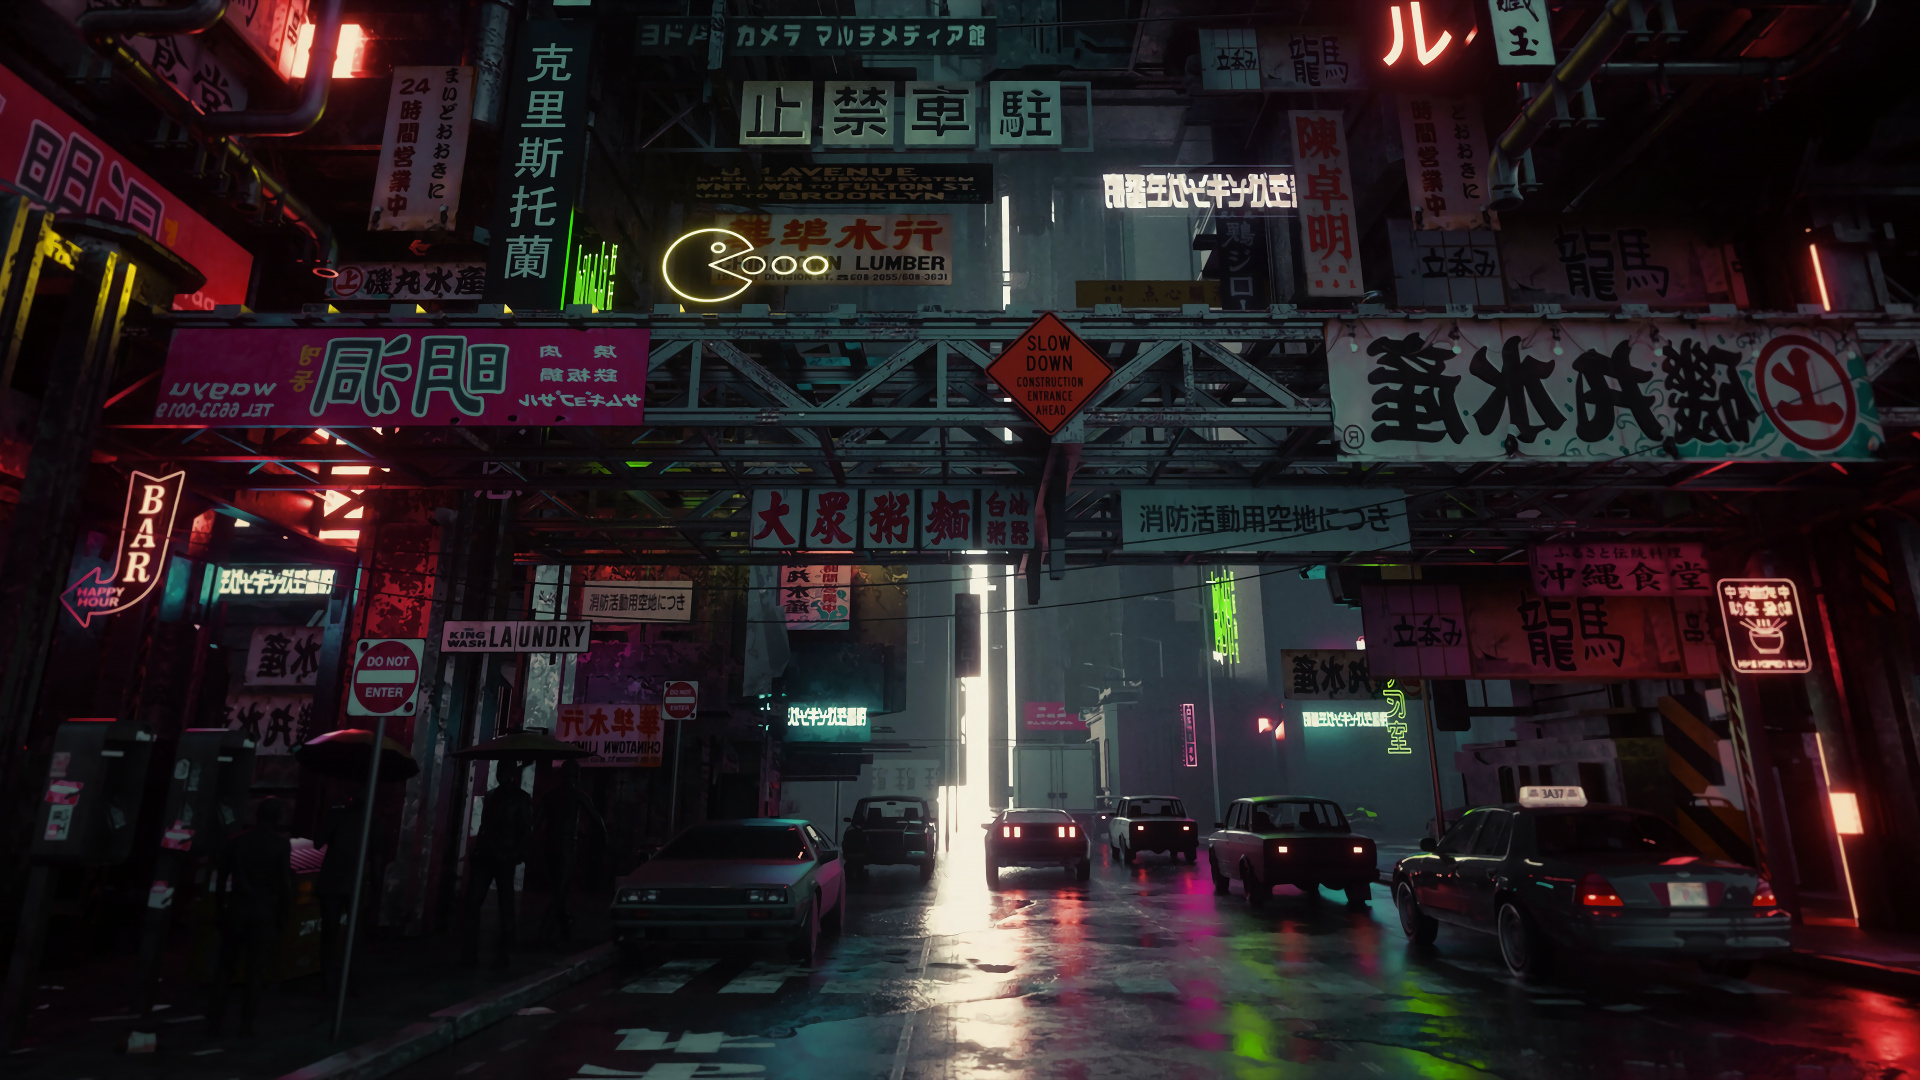
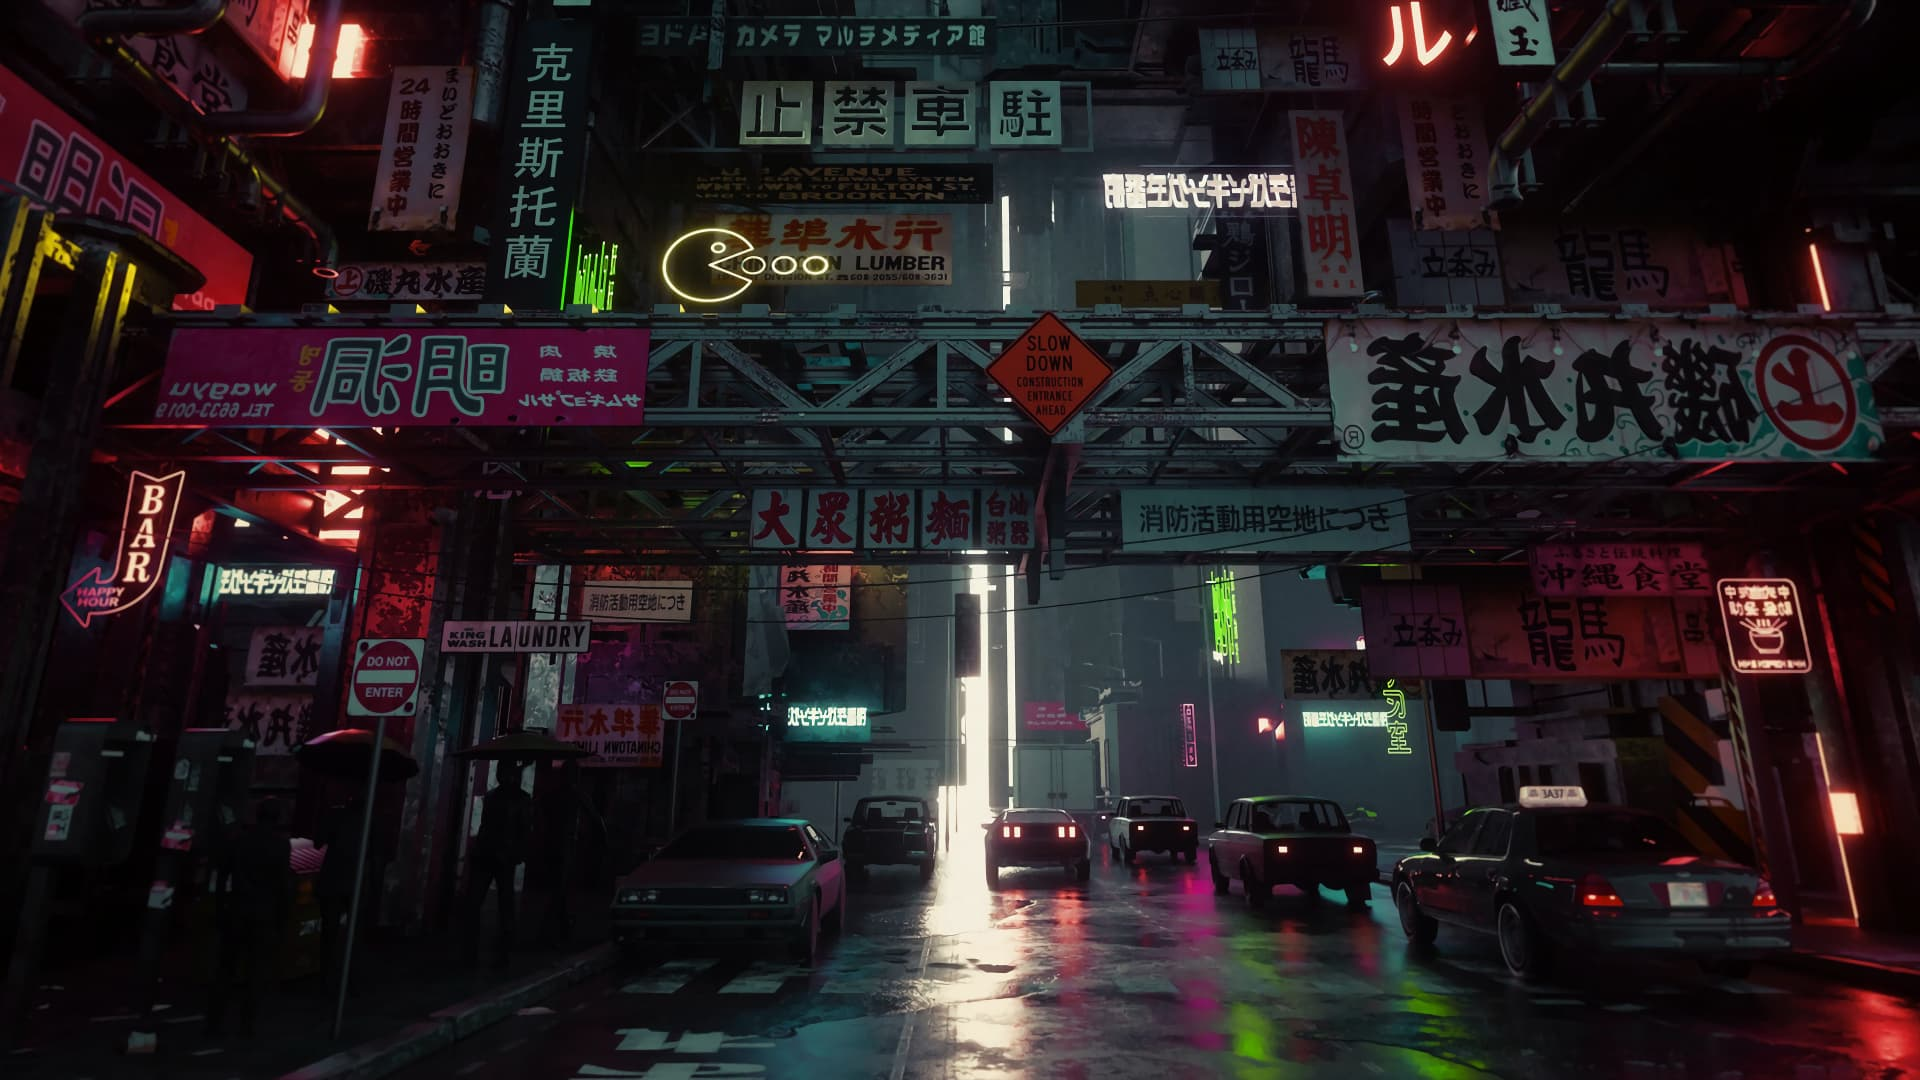
feat: (CLOTHBERRY-50) add optimized images to home

diff --git a/src/pages/HomePage/HomePage.tsx b/src/pages/HomePage/HomePage.tsx
@@ -3,7 +3,7 @@ import 'swiper/css';
 import { Autoplay } from 'swiper/modules';
 import { Swiper, SwiperSlide } from 'swiper/react';
 
-import Img1 from '@assets/images/main-img-1.png';
+import Img1 from '@assets/images/main-img-1.jpg';
 import Img2 from '@assets/images/main-img-2.jpg';
 import { CopyButton } from '@components/CopyButton/CopyButton';
 
@@ -23,10 +23,10 @@ export const HomePage = () => {
             className='mySwiper3'
           >
             <SwiperSlide>
-              <img src={Img1} alt='pic1' height='100%' width='100%' />
+              <img className={style.main__slider__img} src={Img1} alt='pic1' height='1920' width='1080' />
             </SwiperSlide>
             <SwiperSlide>
-              <img src={Img2} alt='pic2' height='100%' width='100%' />
+              <img className={style.main__slider__img} src={Img2} alt='pic2' height='1920' width='1080' />
             </SwiperSlide>
           </Swiper>
         </div>

diff --git a/src/pages/HomePage/HomePage.module.css b/src/pages/HomePage/HomePage.module.css
@@ -27,6 +27,11 @@
   text-align: center;
 }
 
+.main__slider__img {
+  width: 100%;
+  height: 100%;
+}
+
 .promo__title {
   text-align: right;
 }
